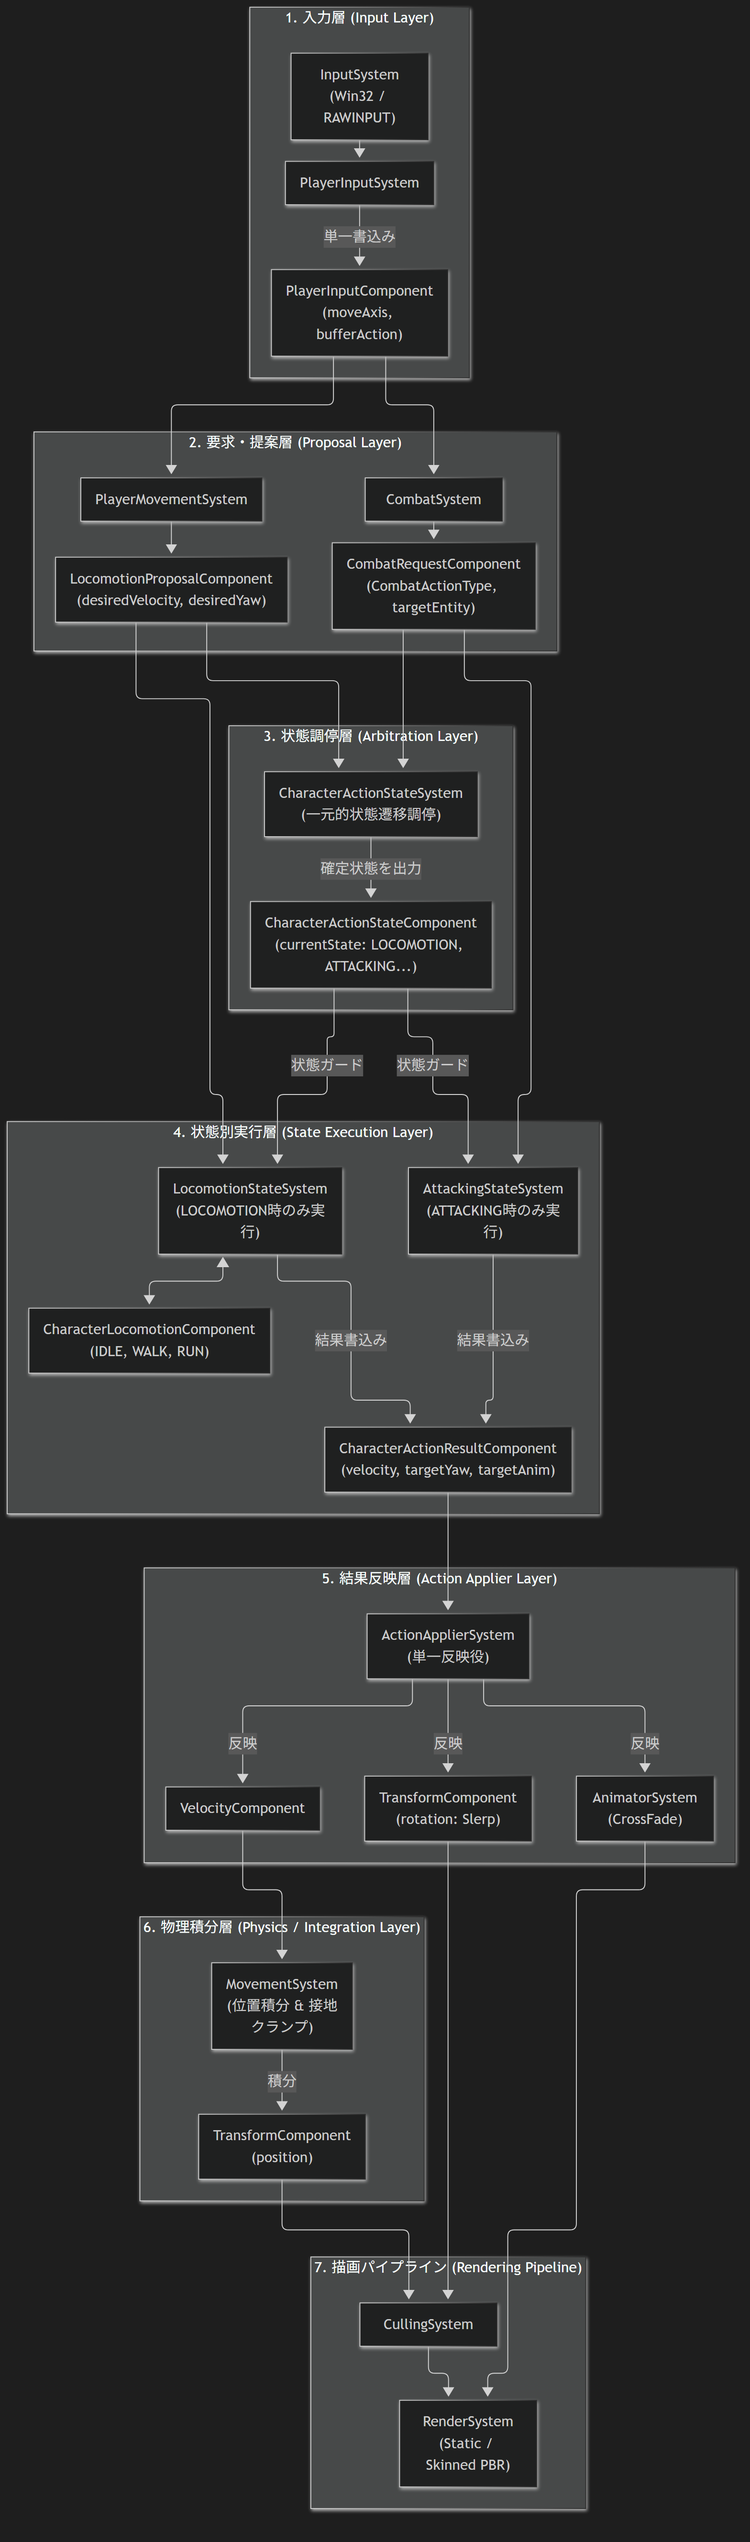
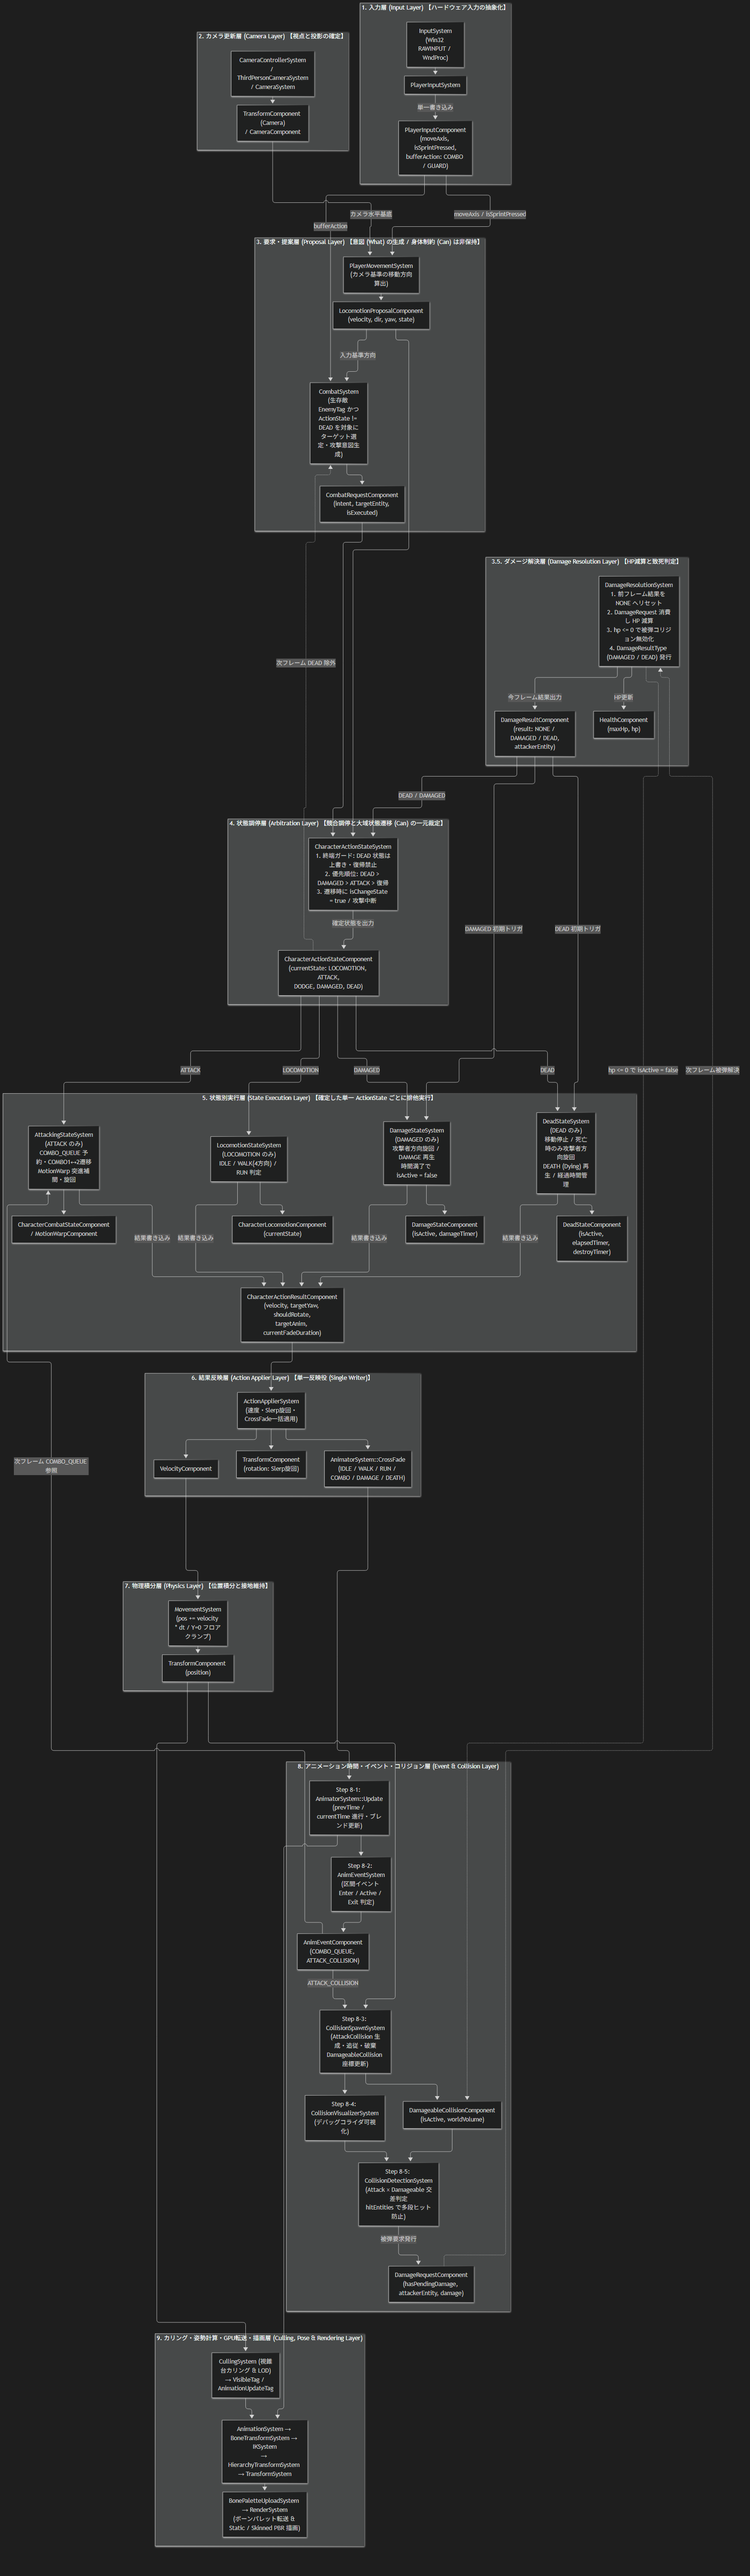
フェーズ1ドキュメントと最新パイプライン構成図を更新

diff --git a/Document/FreeflowCombat_Phase1_Implementation_Plan.md b/Document/FreeflowCombat_Phase1_Implementation_Plan.md
@@ -29,17 +29,30 @@
 
 ### 2.1. レイヤー責務とデータ所有権 (Data Ownership)
 
-パイプラインの各層は明確な関心事の分離（Separation of Concerns）と単一書き込み権限（Single Writer Principle）に基づいて設計されている。
+パイプラインの各層は明確な関心事の分離（Separation of Concerns: SoC）と単一書き込み権限（Single Writer Principle）に基づいて設計されている。
 
-| レイヤー | 主要システム | 主な管理データ（Writer） | 役割・責務 |
+| レイヤー | 主要システム | 主な管理データ（Writer） | 存在意義と責務（ニュアンス） |
 |---|---|---|---|
-| **1. 入力層 (Input Layer)** | `PlayerInputSystem` | `PlayerInputComponent` | OS入力を抽象化し、移動軸と先行入力バッファに書き込む（ゲームロジック非依存）。 |
-| **2. 要求層 (Proposal Layer)** | `PlayerMovementSystem`<br/>`CombatSystem` | `LocomotionProposalComponent`<br/>`CombatRequestComponent` | 入力と視線方向から「プレイヤーが何をしたいか（移動/戦闘）」の要求を発行する（状態変更は行わない）。 |
-| **3. 状態調停層 (Arbitration Layer)** | `CharacterActionStateSystem` | `CharacterActionStateComponent` | 要求と現在状態から、次フレームで有効な全体状態（`ActionState`）を一元的に決定・調停する。 |
-| **4. 状態別実行層 (State Execution Layer)** | `LocomotionStateSystem`<br/>`AttackingStateSystem` | `CharacterActionResultComponent`<br/>`CharacterLocomotionComponent` | 確定した `ActionState` に合致するシステムのみが動作し、目標速度・目標旋回・再生アニメを結果コンポーネントに出力する。 |
-| **5. 結果反映層 (Action Applier Layer)** | `ActionApplierSystem` | `VelocityComponent`<br/>`TransformComponent` (旋回)<br/>`AnimatorSystem` | 結果コンポーネントを読み取り、物理コンポーネントやアニメーション再生（CrossFade）へ一括反映する。 |
-| **6. 物理積分層 (Physics Layer)** | `MovementSystem` | `TransformComponent` (位置) | 確定した速度に基づき位置を積分し（`position += velocity * dt`）、接地（`Y = 0`）を維持する。 |
-| **7. 描画層 (Rendering Layer)** | `RenderSystem`<br/>`CullingSystem` | GPU 定数バッファ | 静的プリミティブ（地面）およびスキニングモデル（プレイヤー）の PBR 描画を行う。 |
+| **1. 入力層 (Input Layer)** | `PlayerInputSystem` | `PlayerInputComponent` | **【ハードウェア入力の抽象化】**<br/>OS（Win32 RAWINPUT）のキー・マウス信号を、ゲームロジック非依存の正規化入力軸（`moveAxis`）および先行入力バッファ（`bufferAction`）に変換する。 |
+| **2. 要求層 (Proposal Layer)** | `PlayerMovementSystem`<br/>`CombatSystem` | `LocomotionProposalComponent`<br/>`CombatRequestComponent` | **【意図 (What) の生成・文脈結合】**<br/>カメラ視線方向や索敵ターゲットと入力を結合し、「ワールドでどう動きたいか」「誰を攻撃したいか」の意図を生成する。身体制約・硬直・受付判定（Can）は持たない。 |
+| **3. 状態調停層 (Arbitration Layer)** | `CharacterActionStateSystem` | `CharacterActionStateComponent` | **【可否 (Can) の一元的裁定と競合調停】**<br/>相反する要求と現在のキャラクター状態（硬直、`COMBO_QUEUE` 区間等）を突き合わせ、次フレームの全体状態（`ActionState`）と先行予約を一元的に裁定する。 |
+| **4. 状態別実行層 (State Execution Layer)** | `LocomotionStateSystem`<br/>`AttackingStateSystem` | `CharacterActionResultComponent`<br/>`CharacterLocomotionComponent` | **【状態固有ドメインロジックの実行】**<br/>確定した単一の `ActionState` のシステムのみが動作し、移動サブステート（Idle/Walk/Run）の決定、コンボ技の解決（COMBO_1 → COMBO_2）、目標速度・目標旋回・再生アニメを出力する。 |
+| **5. 結果反映層 (Action Applier Layer)** | `ActionApplierSystem` | `VelocityComponent`<br/>`TransformComponent` (旋回)<br/>`AnimatorSystem` | **【単一反映役 (Single Writer) / エンジンAPIへの適用】**<br/>実行層が出力した抽象結果を、物理速度のセット、Slerp によるクォータニオン旋回補間、アニメーションの CrossFade 切り替えなどの実体へ一括反映する。 |
+| **6. 物理積分層 (Physics Layer)** | `MovementSystem` | `TransformComponent` (位置) | **【時間積分と環境拘束の維持】**<br/>ゲームロジックから独立し、確定した速度から位置積分（`position += velocity * dt`）を行い、フロアクランプ（`Y = 0` 接地維持）や壁面衝突を解決する。 |
+| **7. 描画層 (Rendering Layer)** | `RenderSystem`<br/>`CullingSystem` | GPU 定数バッファ | **【視覚化とGPU描画】**<br/>視錐台カリングを経て、静的プリミティブ（地面）およびスキニングモデル（プレイヤー）の PBR 描画パイプラインを実行する。 |
+
+### 2.2. 要求・提案層と状態調停層の存在意義（What と Can の分離）
+
+本アーキテクチャにおいて「要求・提案層」と「状態調停層」を厳密に分離している理由は以下の通りである。
+
+1. **生入力からゲーム空間上の意図（What）へのセマンティック変換**:
+   * 入力層にある生データ（WASDキー押下など）を、カメラの水平基底ベクトルと合成して「3次元ワールド空間の移動ベクトル」に翻訳する（`PlayerMovementSystem`）。
+   * 単なるボタン入力を、周囲の敵の索敵・ロックオン候補と結合して「誰に対する攻撃意図か」に翻訳する（`CombatSystem`）。
+2. **多重入力源（プレイヤー・敵AI・通信同期）の抽象化**:
+   * 人間プレイヤー（`PlayerMovementSystem`）だけでなく、将来の敵NPC（`EnemyAIMovement`）や通信同期も全く同じ要求コンポーネントを出力先とする。調停層以降は「誰が要求したか」を気にせず一律に処理できる。
+3. **「何をしたいか (What)」と「今できるか (Can)」の境界分離**:
+   * 要求層（意思決定主）は「攻撃したい」「走りたい」という意図（What）のみを表明し、アニメーションの再生タイムラインやイベント区間（`COMBO_QUEUE` など）は見ない。
+   * 「今キャラクターがその要求を受け入れられるか（Can）」は、キャラクターの状態とアニメーション再生コンテキストを所有する状態調停層（`CharacterActionStateSystem`）が一元的に裁定し、先行入力予約や破棄を行う。これにより、アニメーション仕様の変更が入力・AIロジックへ波及（漏出）するのを防ぐ。
 
 ---
 

diff --git a/Document/FreeflowCombat_Phase1_Implementation_Report.md b/Document/FreeflowCombat_Phase1_Implementation_Report.md
@@ -122,3 +122,16 @@
     3. **`AnimSequenceLoader.cpp` および `AnimatorSystem.cpp` の型整合性修正**:
        `asset->animState = AnimStateType::...` への代入、および `it->second.pAnimSeq->clip` によるクリップ参照の統一を行い、全158件のエラーを解消してビルドを成功（0エラー）させた。
 
+---
+
+### 2.9. 不具合9: EnTTにおける同一コンポーネント二重登録（`Slot not available` アサーションエラー）
+*   **現象**:
+    アプリケーション起動時の `App::InitPlayer` 内 `m_registry->emplace<CharacterLocomotionComponent>(player);` において、EnTT 内部アサーション `Expression: ((elem == null) && ("Slot not available"))` が発生し、実行時クラッシュ（中断）に至った。
+*   **原因**:
+    1. **Factoryと初期化関数間での `emplace` の重複（Duplicate Component Emplacement）**:
+       プレイヤーと敵の共通コンポーネント群を `CharacterFactory::SpawnHumanoid` 側へ集約した際、Visual Studio 側の未保存エディタバッファに旧 `App::InitPlayer` のコードが残存しており、ビルド実行時の自動保存によって `App::InitPlayer` 側の `m_registry->emplace<CharacterLocomotionComponent>(player);` 等の記述が復元された。
+    2. **EnTT スパースセット（Sparse Set）の不変条件違反**:
+       EnTT の `registry::emplace<T>(entity)` は、対象エンティティがまだ型 `T` のコンポーネントを所有していないことを事前条件（Precondition）としている。すでに `SpawnHumanoid` 内でスロットが確保・構築されたエンティティに対して再度 `emplace<T>` を呼び出したため、空きスロット検査 `elem == null` が偽となりアサーションが発火した。
+*   **解決策**:
+    `CharacterFactory::SpawnHumanoid` 側で付与済みの共通コンポーネント（`CharacterLocomotionComponent` 等11種）の `emplace` 呼び出しを `App::InitPlayer` から完全に撤去し、`App::InitPlayer` ではプレイヤー固有の `PlayerInputComponent` および `PlayerTag` のみを付与する構造へ単一化した。
+
